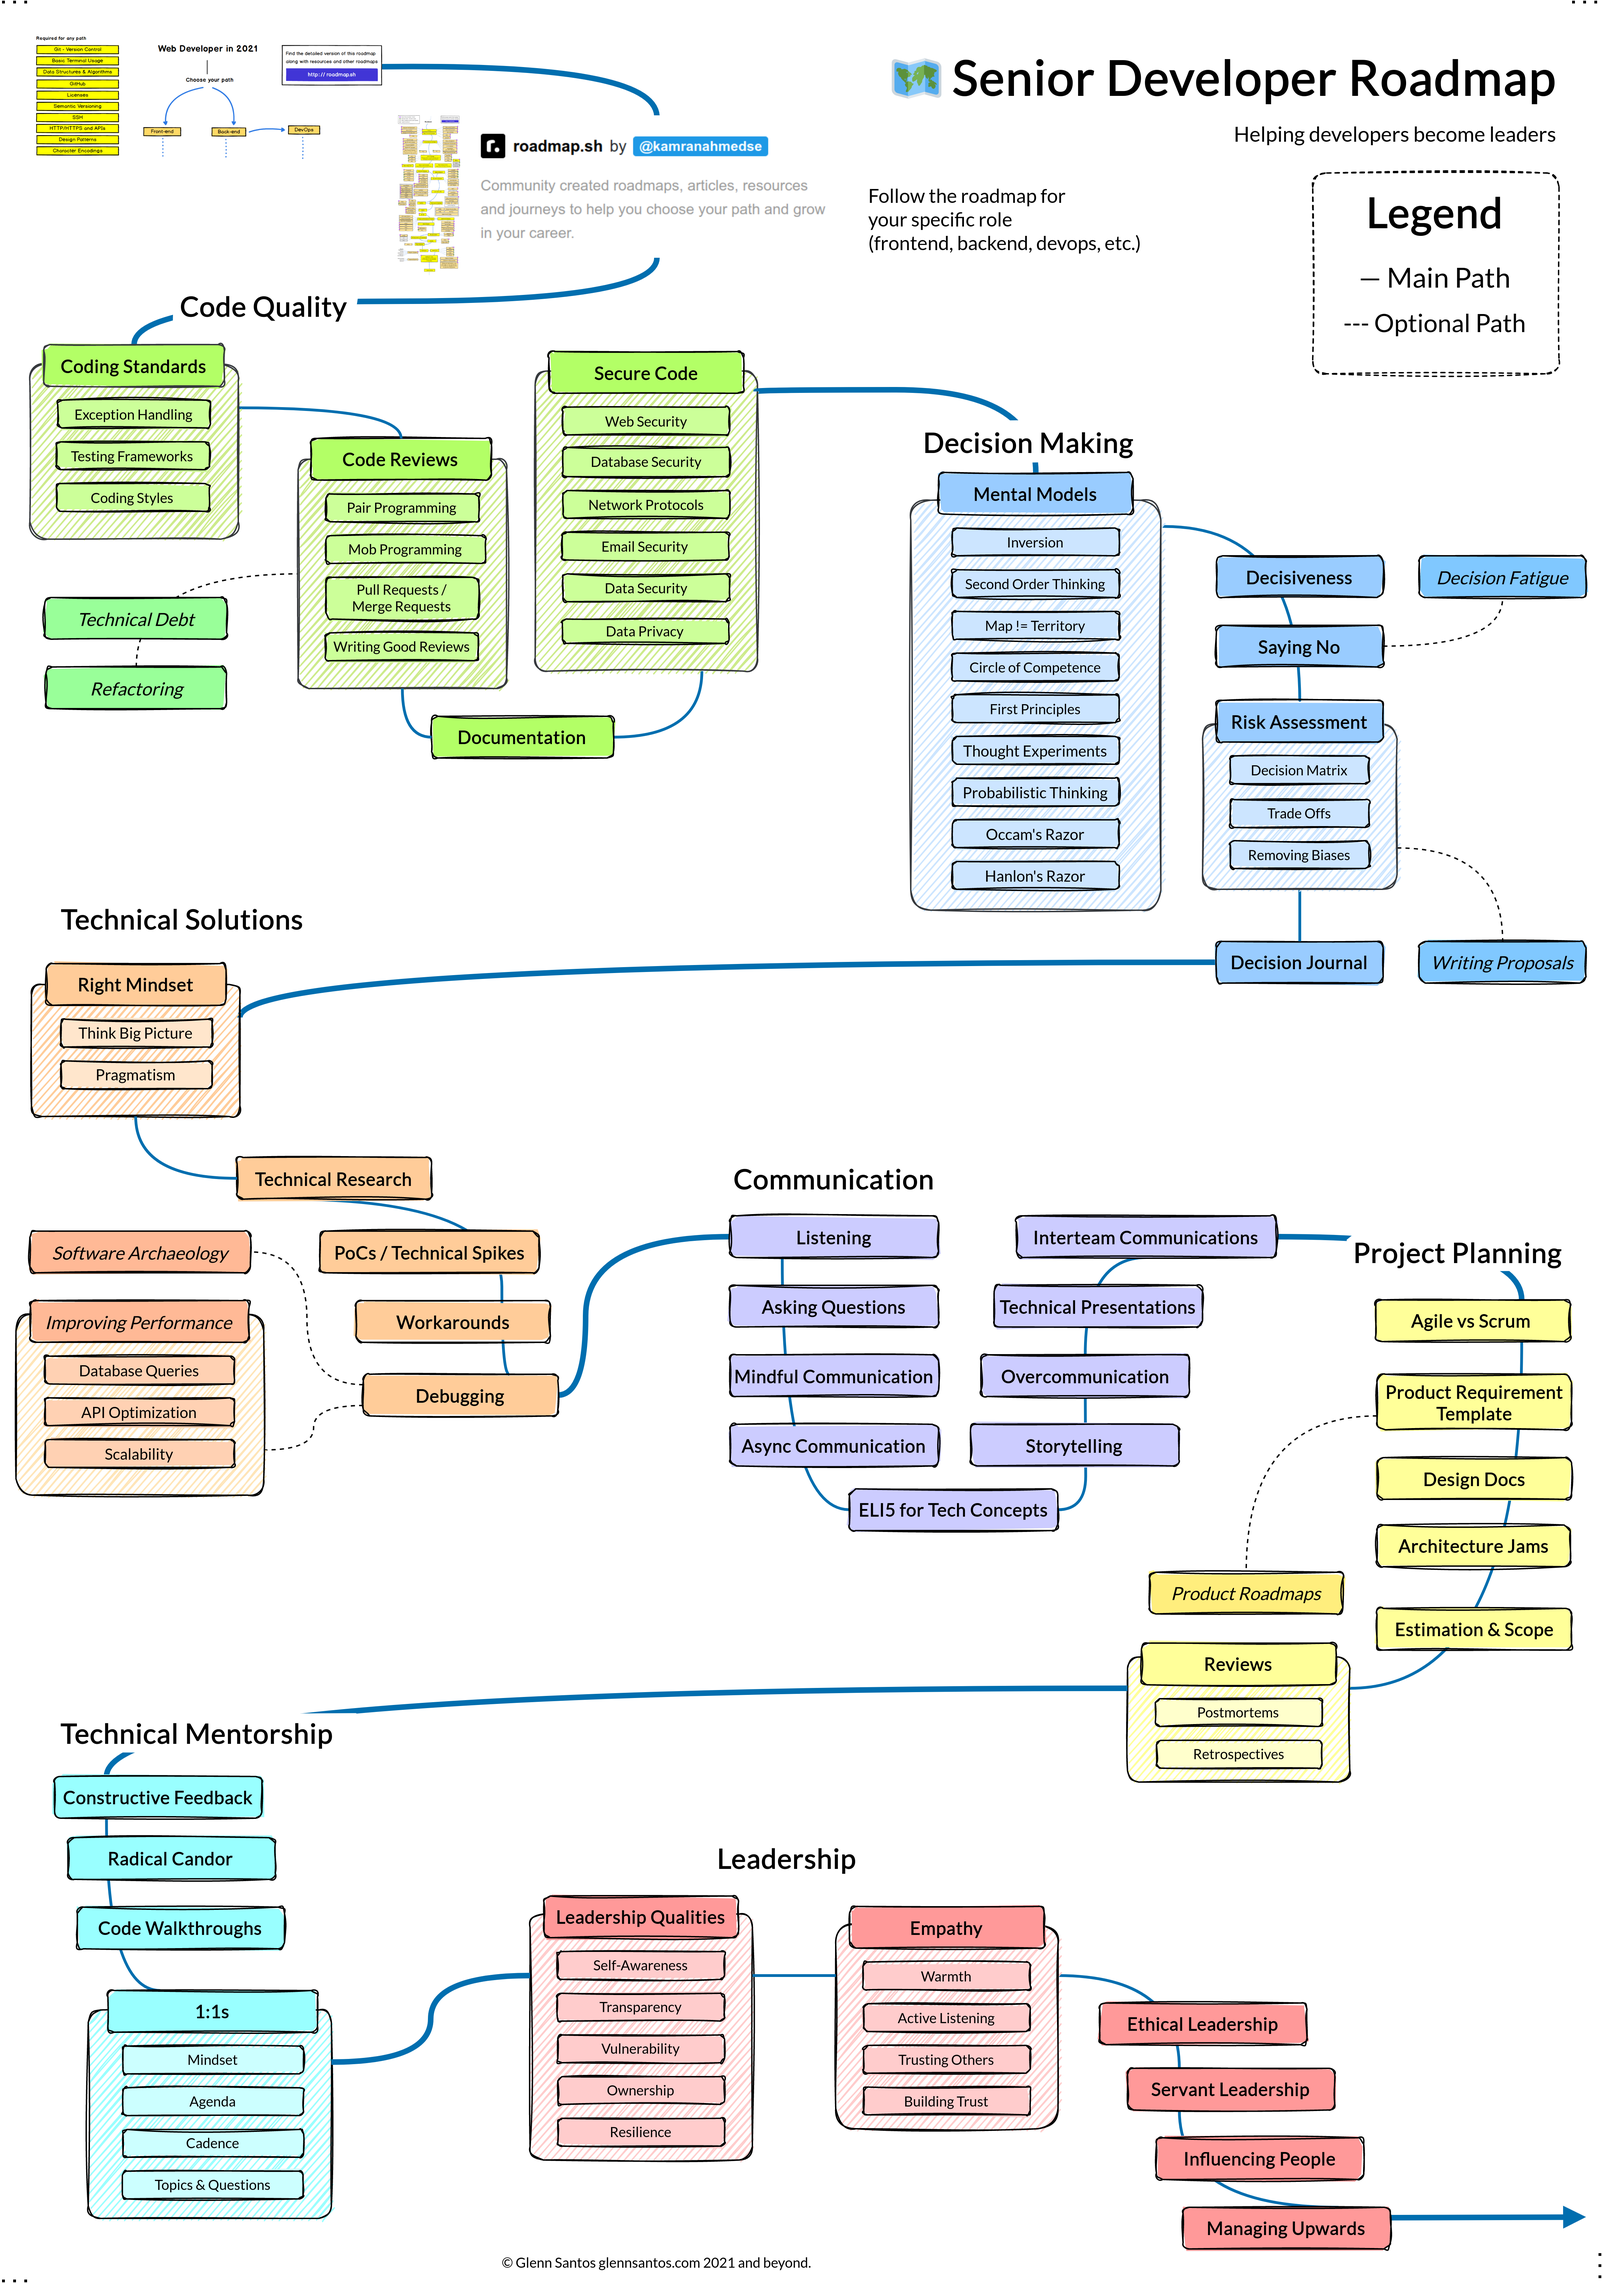
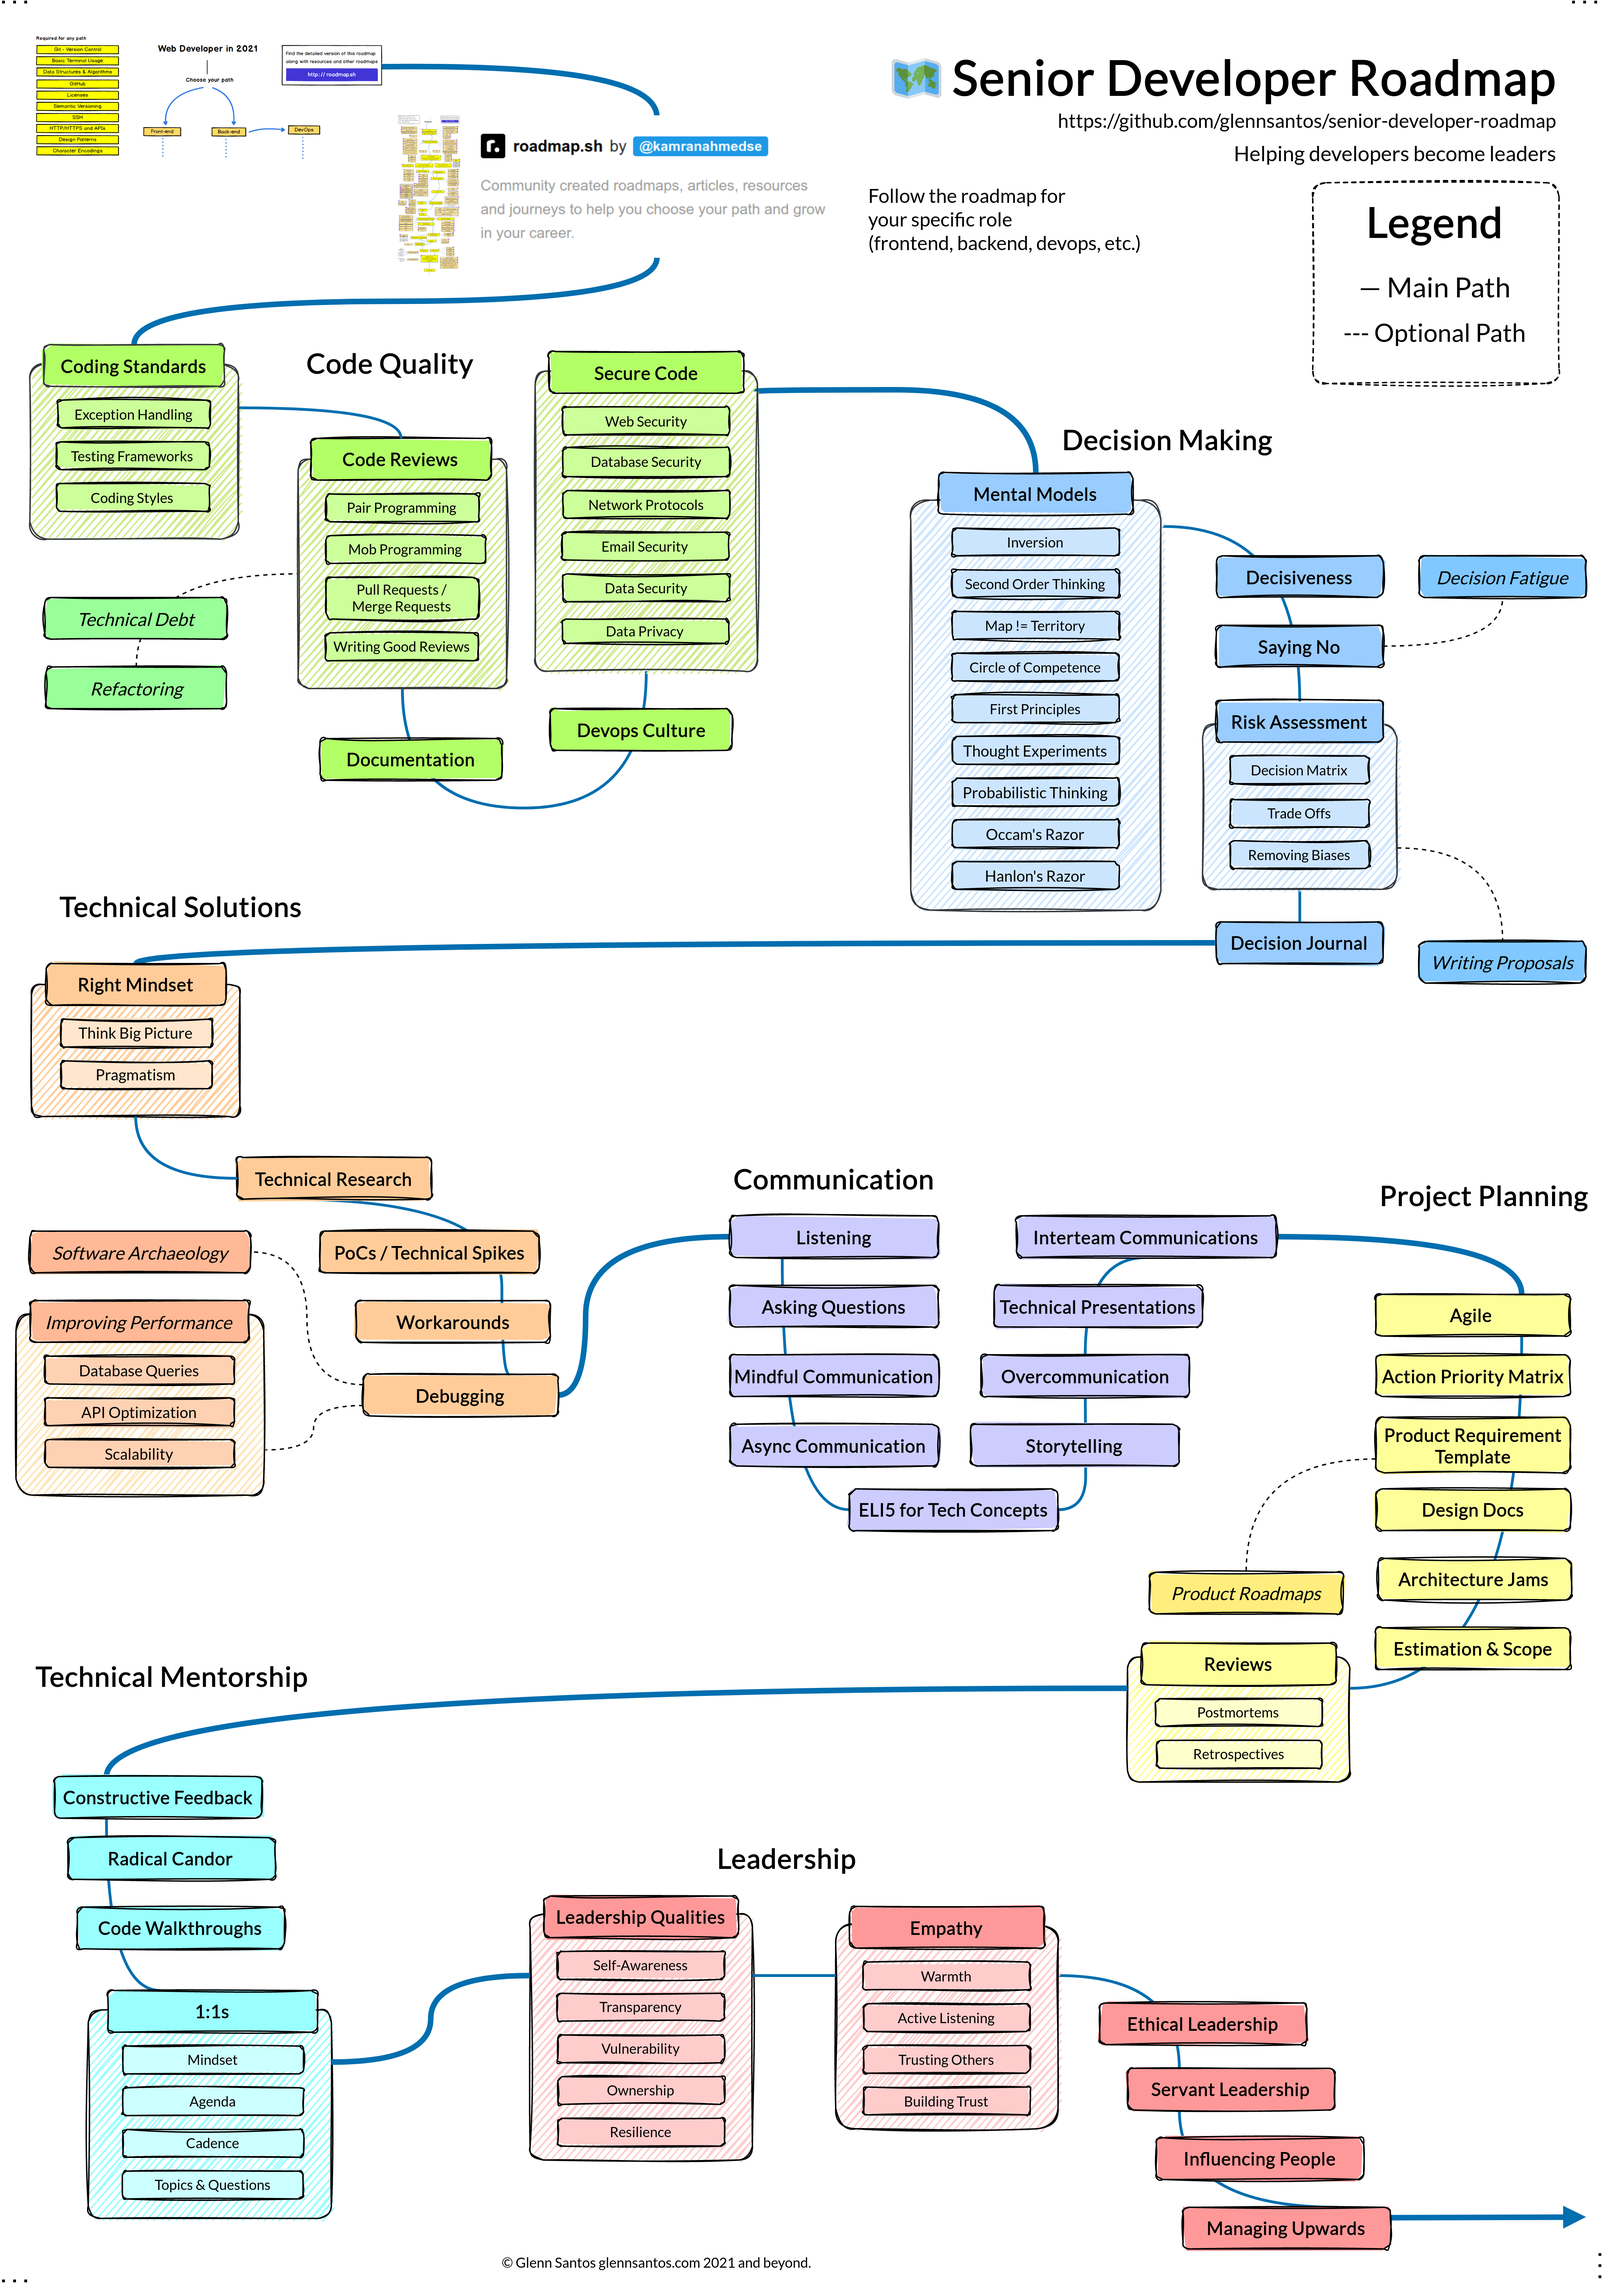
action priority matrix notes

diff --git a/leadership/influencing-people.md b/leadership/influencing-people.md
@@ -1,0 +1,67 @@
+🗒 Notes from [𝗛𝗼𝘄 𝘁𝗼 𝗜𝗻𝗳𝗹𝘂𝗲𝗻𝗰𝗲 𝗪𝗶𝘁𝗵𝗼𝘂𝘁 𝗔𝘂𝘁𝗵𝗼𝗿𝗶𝘁𝘆](https://medium.com/atlassian-product-management-blog/how-to-influence-without-authority-4622ad7d52c9) by Matthew Tse
+
+𝗜𝗻𝗳𝗹𝘂𝗲𝗻𝗰𝗶𝗻𝗴 𝘄𝗶𝘁𝗵𝗼𝘂𝘁 𝗔𝘂𝘁𝗵𝗼𝗿𝗶𝘁𝘆 is the ability to make others act, behave, or think without having any power or right over them.
+
+
+Step 1: 🔬 𝙐𝙣𝙙𝙚𝙧𝙨𝙩𝙖𝙣𝙙 𝙩𝙝𝙚 𝙘𝙪𝙡𝙩𝙪𝙧𝙚 𝙖𝙣𝙙 𝙘𝙤𝙣𝙩𝙚𝙭𝙩 𝙤𝙛 𝙩𝙝𝙚 𝙤𝙧𝙜𝙖𝙣𝙞𝙯𝙖𝙩𝙞𝙤𝙣
+* Adopt a seek-first-to-understand attitude before making any type of change
+* It comes down to observing and asking questions.
+
+Step 2: 👥 𝙄𝙙𝙚𝙣𝙩𝙞𝙛𝙮 𝙩𝙝𝙚 𝙙𝙚𝙜𝙧𝙚𝙚𝙨 𝙤𝙛 𝙨𝙚𝙥𝙖𝙧𝙖𝙩𝙞𝙤𝙣
+* 𝘋𝘦𝘨𝘳𝘦𝘦𝘴 𝘰𝘧 𝘴𝘦𝘱𝘢𝘳𝘢𝘵𝘪𝘰𝘯 is a measure of social distance between people
+* It’s always easiest to influence people you work the closest with and on a daily basis.
+
+𝟯 𝗜𝗻𝗳𝗹𝘂𝗲𝗻𝗰𝗲 𝗣𝗹𝗮𝘆𝘀
+
+🧑⚕ 𝗣𝘀𝘆𝗰𝗵𝗼𝗹𝗼𝗴𝗶𝘀𝘁: Understand the motivations and context of who you’re trying to influence & then working backwards to reach an outcome.
+
+𝘜𝘴𝘦 𝘸𝘩𝘦𝘯...
+* In a new company, new project, new team.
+* There's a change in roles in your team.
+* There's a conflict in the team or project.
+
+𝘎𝘰𝘢𝘭𝘴:
+* Understand context and motivation via active listening.
+* Confirm your understanding of their point of view by mirroring their story and building up empathy
+* Decide what trade-offs you’ll need to make (if any).
+
+𝘛𝘰𝘥𝘰𝘴:
+* Schedule one-on-ones.
+* Run regular health monitors with the team.
+* Do some background reading to build up any initial context that you might not be privy to.
+* Get social with your team and stakeholders.
+
+🧑💼 𝗣𝗶𝘁𝗰𝗵𝗲𝗿: Constantly exploring and trying different ways of framing ideas that you want to influence.
+
+𝘜𝘴𝘦 𝘸𝘩𝘦𝘯...
+* You’re looking for the right framing / perspective.
+* You want to refine a problem/idea.
+* You’re closer to your immediate team
+
+𝘎𝘰𝘢𝘭𝘴:
+* Pick different perspectives and see how the problem and idea might change.
+* Create visualizations to make it easy for people to understand your proposal.
+* Solicit feedback and involvement by keeping it informal.
+
+𝘛𝘰𝘥𝘰𝘴:
+* Brand your concept.
+* Use any internal innovation or hackathon time to explore ideas.
+* Keep a list of ideas.
+* Whiteboard together with your team.
+* Elevator pitch to your peers and see if the idea(s) stick.
+
+🧑💻 𝗔𝗰𝘁𝗶𝘃𝗶𝘀𝘁: Creating large movements by regularly sharing stories, perspectives and facts.
+
+𝘜𝘴𝘦 𝘸𝘩𝘦𝘯...
+* Proposing a significant change.
+* You’re outside of your immediate team
+
+𝘎𝘰𝘢𝘭𝘴:
+* Tell your story from both a bottom-up and top-down approach.
+* Be empathetic and show your audience how your cause relates to their goals.
+* Demonstrate passion and patience 
+
+𝘛𝘰𝘥𝘰𝘴:
+* Use presentations and ‘fake’ concepts to get your point across. 
+* Use thoughtful write-ups and narratives.
+* Repeat at different timings if it doesn’t work out in the first attempt.

diff --git a/project-planning/agile.md b/project-planning/agile.md
@@ -1,0 +1,19 @@
+## [Agile Software Development](https://www.agilealliance.org/agile101/)
+* A method of developing software that follows the [Agile Manifesto](https://www.agilealliance.org/agile101/the-agile-manifesto/) and the [12 Agile Principles](https://agilemanifesto.org/principles.html). The name Agile was chosen to reflect the need for software development to be "agile" when facing changing requirements and technologies.
+* Instead of focusing on processes and procedures, Agile emphasizes that the people creating the software are more important, allowing them to become self-organized, collaborative, and cross-functional teams.
+
+## Agile Frameworks
+[Scrum](https://www.agilealliance.org/glossary/scrum/)
+* An agile framework that works best for small cross-functional teams (ex. marketing, technical and management in one team) that aim to deliver products while making the work easy to manage. Scrum is short for "scrummage", a term used in rugby to describe a tightly-knit and organized team formation.
+
+[Kanban](https://www.agilealliance.org/glossary/kanban/)
+* A method for visualizing the work created by a team. The most popular tool used for this is probably [Trello](https://trello.com/). Can be used both by software development teams and service delivery teams. Kanban means "signboard", which is the main view used to show the tasks in progress for the project. 
+
+[XP / Extreme Programming](https://www.agilealliance.org/glossary/xp/)
+* An agile framework that focuses heavily on collaboration, automation, and testing to deliver higher quality software. The name came about because its practicioners took basic software engineering practices to an "extreme" level.
+
+
+----
+
+[Glossary of Agile Terms](https://www.agilealliance.org/agile101/agile-glossary/)
+* A great resource for looking up both project management terms as well as a few software development terms you might be unfamiliar with.

diff --git a/project-planning/action-priority-matrix.md b/project-planning/action-priority-matrix.md
@@ -1,0 +1,21 @@
+# 𝗧𝗵𝗲 𝗔𝗰𝘁𝗶𝗼𝗻 𝗣𝗿𝗶𝗼𝗿𝗶𝘁𝘆 𝗠𝗮𝘁𝗿𝗶𝘅 🏆
+A diagram that shows you which tasks to focus on, and in which order.
+
+Separate the tasks according to:  
+🏰 **Quick Wins** (high impact, low effort) - Gives the best return for effort.  
+🏔 **Major Projects** (high impact, high effort) - Gives good returns, but they are time-consuming.  
+⛺ **Fill-ins** (low impact, low effort) - Automate, delegate, defer, or drop these tasks.  
+🏚 **Thankless Tasks** (low impact, high effort) - Avoid these activities.  
+
+## Tips:
+1. Plan ahead for major projects so you can make progress on them. Alternatively, you can slice these up into smaller quick wins.
+2. Whether they are quick wins or major projects, focus on the work that will provide the greatest return versus the effort. This might mean foregoing some quick wins over getting major projects started as soon as possible.
+3. Use this method both for prioritizing projects to work on, as well as for the tasks within each project. You might be surprised how many tasks we thought would be quick wins are actually just fill-ins!
+
+[![](action-priority-matrix-1.png)](https://www.productplan.com/glossary/action-priority-matrix/)
+
+*image courtesy of Product Plan blog*
+
+References:
+- https://www.productplan.com/glossary/action-priority-matrix/
+- https://www.mindtools.com/pages/article/newHTE_95.htm

diff --git a/README.md b/README.md
@@ -9,6 +9,10 @@ If you prefer something actionable, [jump to the checklist version here](https:/
 
 We also have a mentorship program where we help developers become leaders. [Come join us](https://tally.so/r/3leK5w)!
 
+More about me:
+- [LinkedIn](https://www.linkedin.com/in/glennsantos/)
+- [glennsantos.com](https://glennsantos.com)
+
 ### Credits:
 - [Kamran Ahmed](https://github.com/kamranahmedse) for his work on [roadmap.sh](https://roadmap.sh/), upon which this roadmap is built upon
 - Mentors in our program who gave feedback: [Jesse Panganiban](https://github.com/thejpanganiban), [Renz Rollon](https://github.com/renzrollon), [Ben Sarmiento](https://github.com/yowmamasita) & [Darwin Pasco](https://github.com/darwin25)
